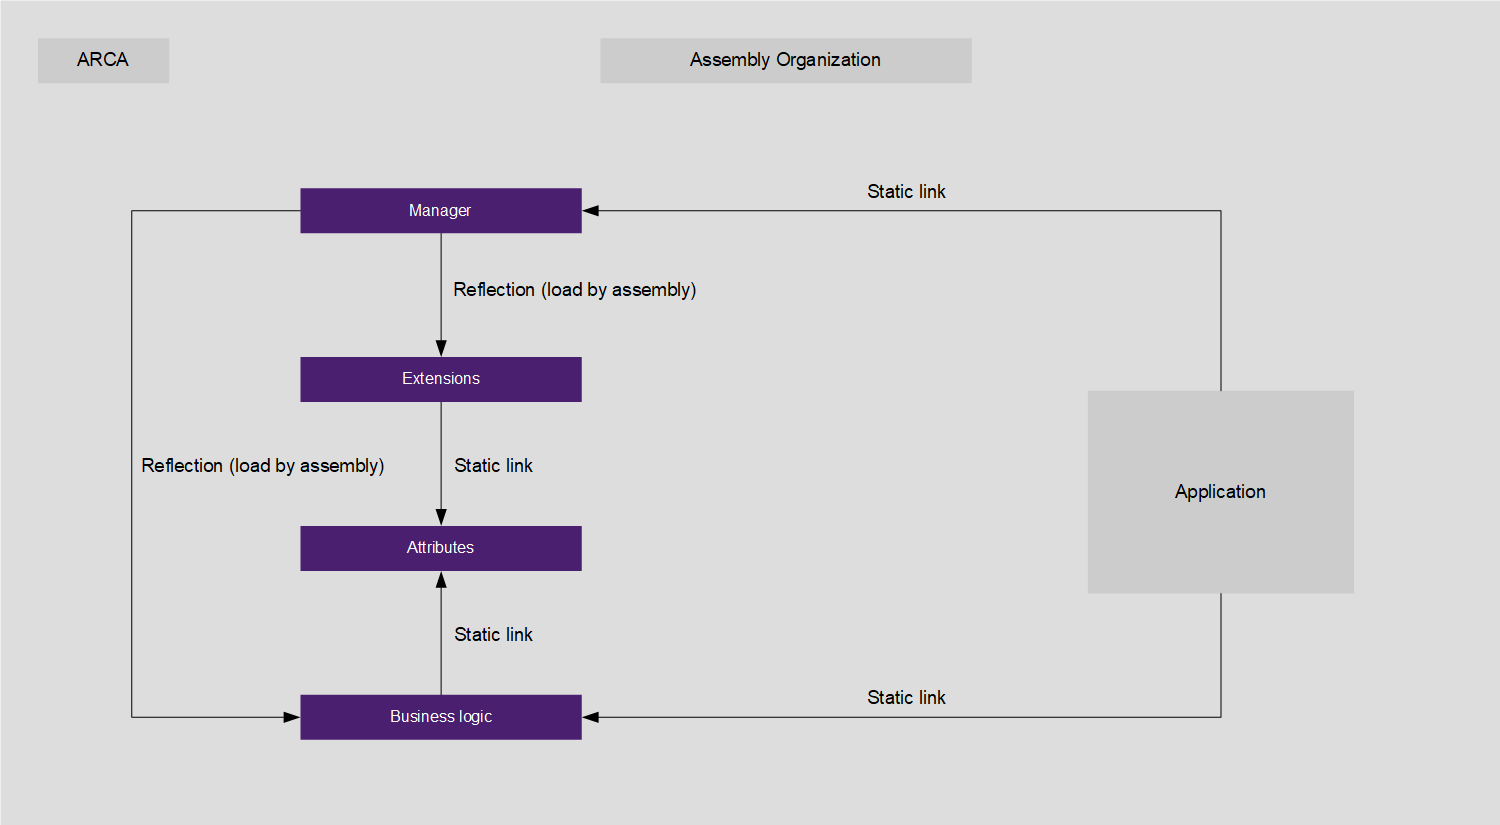
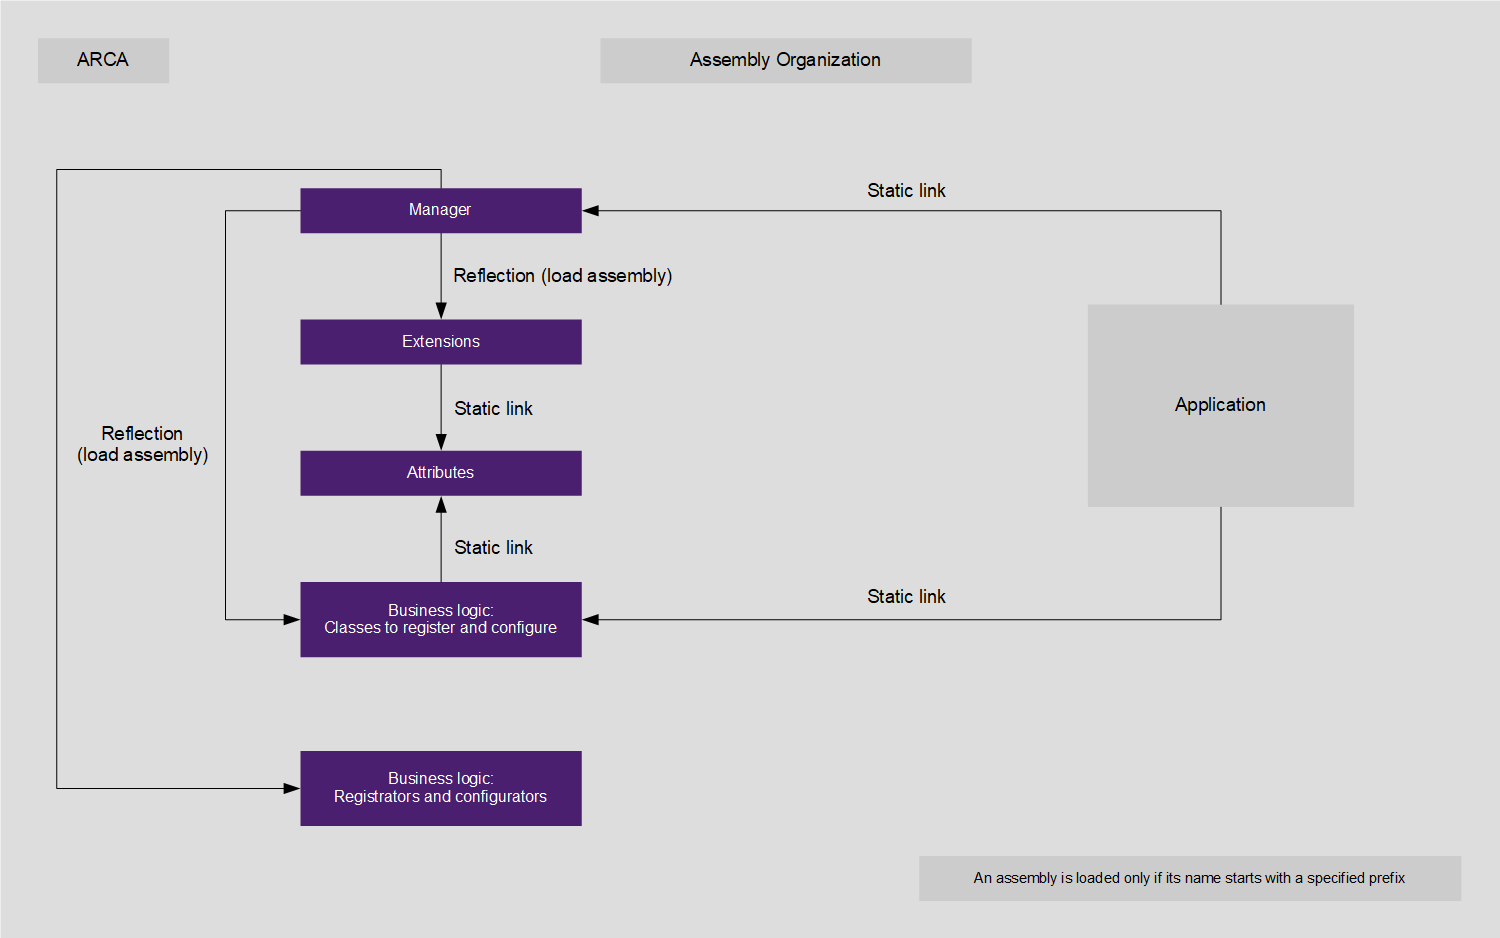
Updated documentation

diff --git a/README.md b/README.md
@@ -153,7 +153,7 @@ The ARCA manager must be instantiated with a set of options that can be created 
 
 `Prioritize`: Specifies a type that the manager will process first. The types are processed in the specified order, and before types which are not specified. This is particularly useful for middleware.
 
-Note: The attributes, extensions, registrators and configurators that you want to use must be defined in assemblies whose names start with a prefix from the prefix list. If the "Automated.Arca." prefix is added to the prefix list through the constructor of the options class, you can use the predefined attributes and extensions without specifying this prefix.
+Note: The extensions, registrators and configurators that you want to use, and the classes you want to register and configure, must be defined in assemblies whose names start with a prefix from the prefix list. The "Automated.Arca." prefix can be added automatically to the prefix list through the constructor of the options class.
 
 
 ### SPECIFYING ASSEMBLIES
@@ -185,7 +185,7 @@ After you instantiate the manager, at application startup, and you add assemblie
 * Configures the registered classes (based on extensions).
 * Runs the configurators. The configurators can't depend on one another because the manager doesn't know the order in which to run the configurators.
 
-Note: The `Register` and `Configure` manager methods may be called multiple times, but the manager checks the consistency of the state of each type that was loaded (by the manager) with an `AddXXX` manager method. So, for example if you call `AddXXX`, then `Register`, then `AddXXX` again, an exception is thrown because you didn't call `Configure` after `Register`. Microsoft's dependency injection container stops registering components once the instantiation provider (`IServiceProvider`) is built, and the configuration phase of the manager starts, without throwing an exception, so it's pointless to register new types after the `Configure` manager method is called.
+Note: The `Register` and `Configure` manager methods may be called multiple times, but the manager checks the consistency of the state of each type that was loaded (by the manager) with an `AddXXX` manager method. So, for example if you call `AddXXX`, then `Register`, then `AddXXX` again, an exception is thrown because you didn't call `Configure` after `Register`. Microsoft's dependency injection container stops registering components once the instantiation provider (`IServiceProvider`) is built, and the configuration phase of the manager starts, without throwing an exception, so it's pointless to register new types after the `Configure` manager method is called. ARCA allows multiple calls to `Register` and `Configure` because it can be used without dependency injection.
 
 Note: If the order of processing matters, use the `Prioritize` manager option.
 
